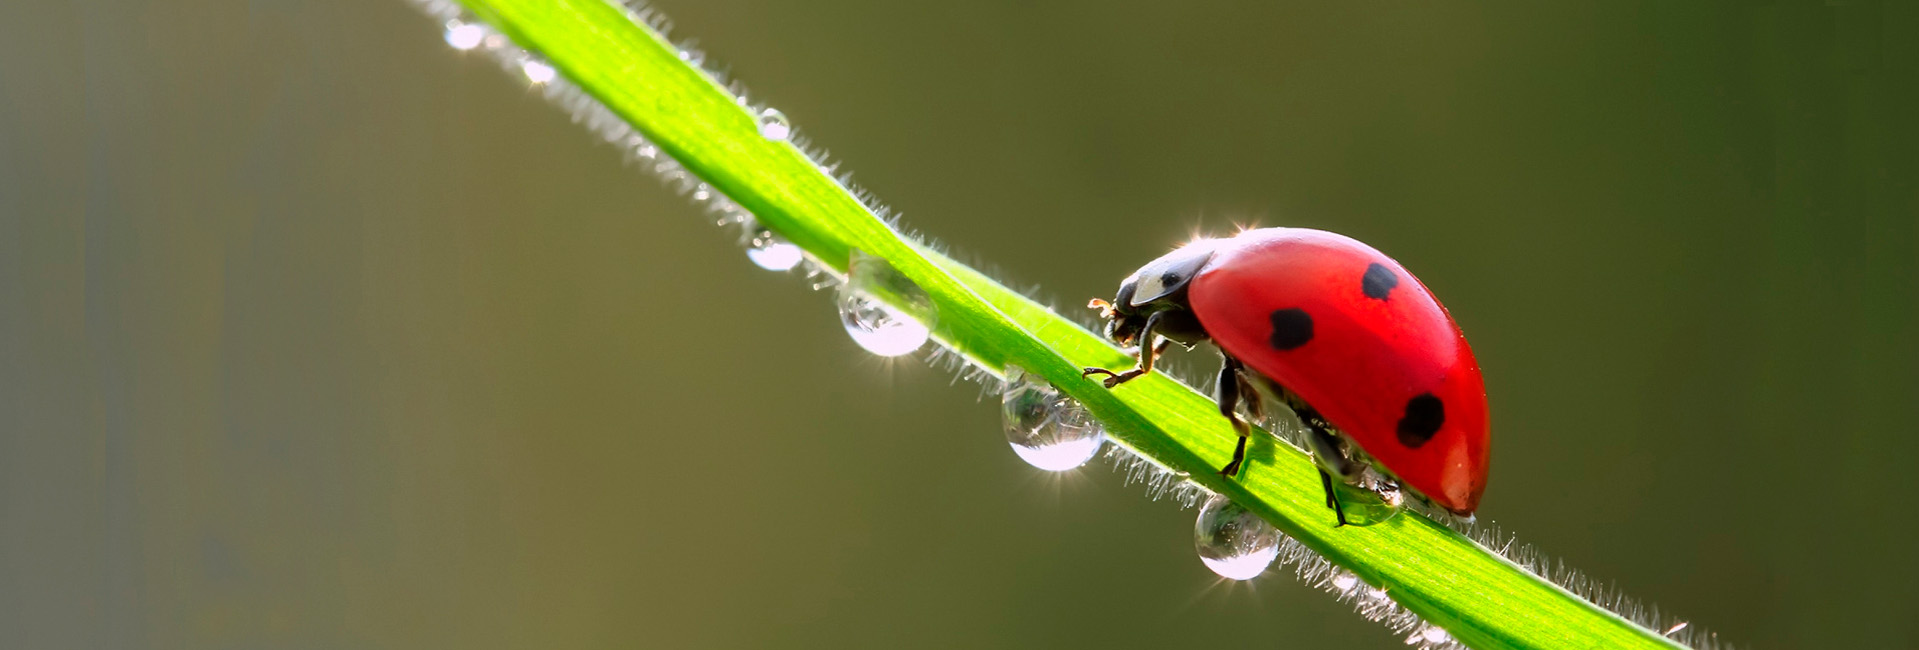
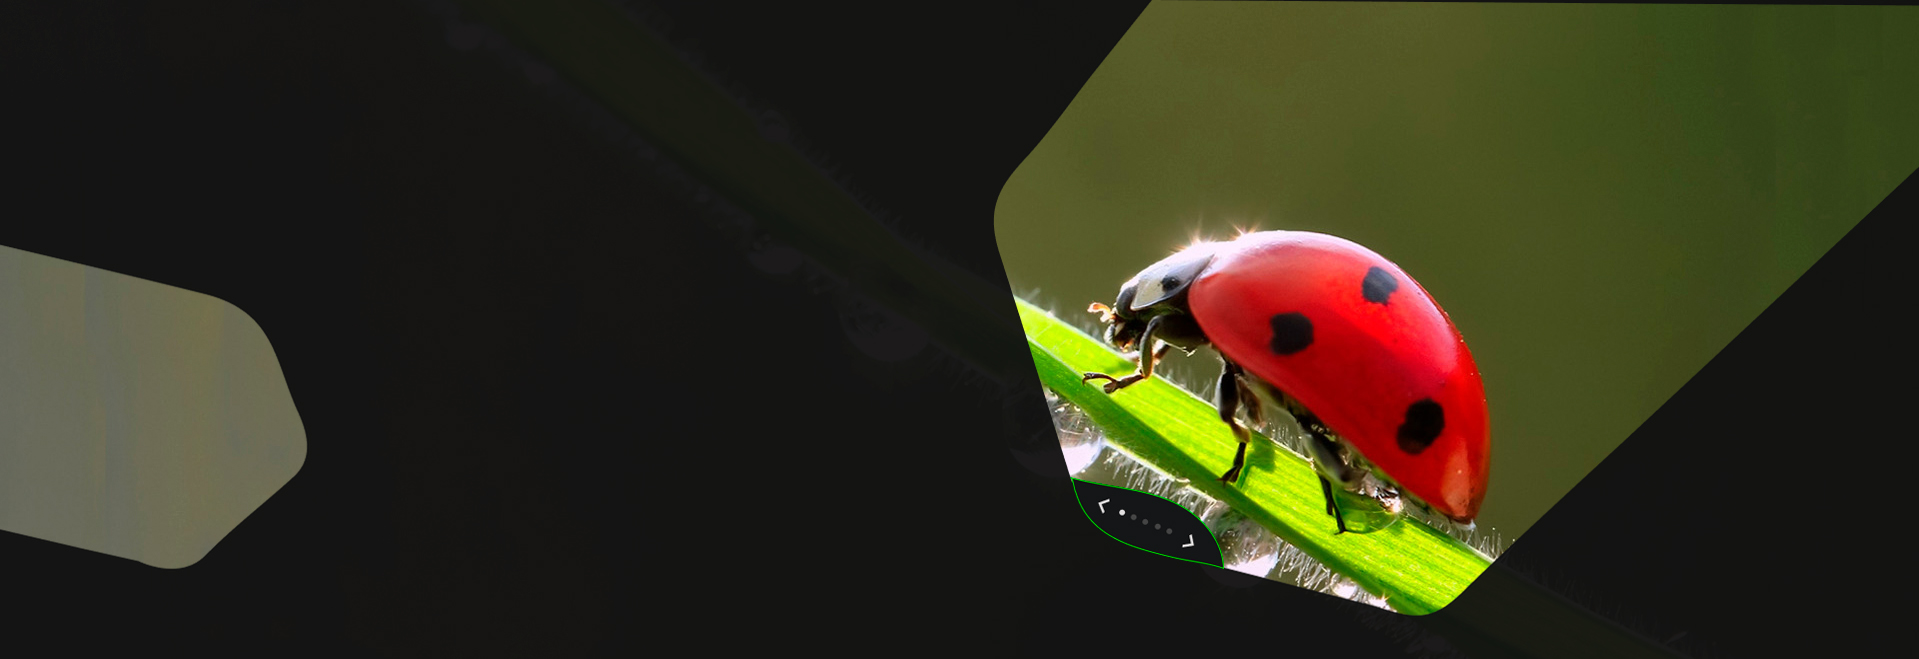
Entomophages Hero

diff --git a/frontend/src/components/Hero/index.tsx b/frontend/src/components/Hero/index.tsx
@@ -1,29 +1,21 @@
+import ListAltItems from "../ListAltItems";
 import ListItems from "../listItems";
 import styles from "./Hero.module.scss";
 
 const index = (props: any) => {
   return (
-      <div className={styles.hero}>
-        <img src="/Background/1.png" alt="Background" width={800} className={styles.imageAdapt} />
-        <div className={styles.container}>
-          <h1 className={styles.title}>{props.title}</h1>
+    <div className={styles.hero} style={{ backgroundImage: `url(${props.Background})` }}>
+      <img src={props.imageAdapt} alt="Background" width={800} className={styles.imageAdapt} />
+      <div className={styles.container}>
+        <h1 className={styles.title}>{props.title}</h1>
 
-          {props.text && <p className={styles.text}>{props.text}</p>}
+        {props.text && <p className={styles.text}>{props.text}</p>}
 
-          {props.listItems && <ListItems listItems={props.listItems} />}
+        {props.listItems && <ListItems listItems={props.listItems} />}
 
-          {/* {props.listAltItems && props.listAltItems.length > 0 && (
-          <ul className={styles.listAlt}>
-            {props.listAltItems.map((item: any, index: any) => (
-              <li key={index} className={styles.itemAlt}>
-                <img src={item.img} alt="icon" width={40} height={40} className={styles.icon} />
-                <h3 className={styles.text}>{item.title}</h3>
-              </li>
-            ))}
-          </ul>
-        )}  */}
-        </div>
+        {props.listAltItems && <ListAltItems listItem={props.listAltItems} />}
       </div>
+    </div >
   );
 };
 

diff --git a/frontend/src/pages/Entomophages.tsx b/frontend/src/pages/Entomophages.tsx
@@ -51,7 +51,8 @@ const Entomophages = () => {
     <>
       <Hero
         title="Высокоэффективные Энтомофаги"
-        backgroundImage="./Background/Entomophages.jpg"
+        Background="/Background/Entomophages.jpg"
+        imageAdapt="/Background/2.png"
         text="Внесение энтофагов при помощи БПЛА увеличивает эффективность защиты растений до 90%"
         listAltItems={[
           { img: "./Hero/iconSoy.svg", title: "до 90% сои" },
@@ -59,10 +60,7 @@ const Entomophages = () => {
           { img: "./Hero/iconRape.svg", title: "до 70% рапса" },
           { img: "./Hero/iconSunflower.svg", title: "до 85% подсолнуха" },
           { img: "./Hero/iconCorn.svg", title: "до 80 % кукурудзы" },
-          {
-            img: "./Hero/iconFruits.svg",
-            title: "до 90 % овощных и плодовых культ",
-          },
+          { img: "./Hero/iconFruits.svg", title: "до 90 % овощных и плодовых культ" },
         ]}
       />
 

diff --git a/frontend/src/components/ListAltItems/ListAltItems.module.scss b/frontend/src/components/ListAltItems/ListAltItems.module.scss
@@ -1,0 +1,76 @@
+.listAlt {
+    max-width: 700px;
+    display: flex;
+    flex-wrap: wrap;
+    gap: 40px;
+    margin-top: 70px;
+    justify-content: space-between;
+}
+
+.itemAlt {
+    display: flex;
+    width: 200px;
+}
+
+.icon {
+    margin-right: 10px;
+}
+
+.text {
+    font-weight: 400;
+    font-size: 18px;
+    line-height: 222%;
+}
+
+@media (max-width: 1650px) {
+    .listAlt {
+        max-width: 600px;
+        gap: 0;
+    }
+
+    .itemAlt {
+        display: flex;
+        width: 180px;
+    }
+
+    .icon {
+        margin-right: 10px;
+    }
+
+    .text {
+        font-weight: 400;
+        font-size: 18px;
+        line-height: 222%;
+    }
+}
+
+@media (max-width: 1300px) {
+    .listAlt {
+        max-width: 500px;
+        margin-top: 40px;
+    }
+
+    .itemAlt {
+        width: 160px;
+    }
+
+    .text {
+        font-size: 16px;
+    }
+}
+
+@media (max-width: 500px) {
+    .listAlt {
+        max-width: 400px;
+        gap: 8px;
+        justify-content: center;
+    }
+
+    .itemAlt {
+        width: 120px;
+    }
+
+    .text {
+        font-size: 14px;
+    }
+}

diff --git a/frontend/src/components/Hero/Hero.module.scss b/frontend/src/components/Hero/Hero.module.scss
@@ -1,5 +1,4 @@
 .hero {
-  background-image: url("/Background/bgBackgroundhero.jpg");
   background-repeat: no-repeat;
   background-size: contain;
   max-width: 1920px;
@@ -91,6 +90,11 @@
     font-size: 38px;
     max-width: 520px;
   }
+
+  .text {
+    font-size: 20px;
+    max-width: 460px;
+  }
 }
 
 // @media (max-width: 1300px) {
@@ -155,6 +159,10 @@
     text-align: center;
     margin: 0 auto;
   }
+
+  .text {
+    text-align: center;
+  }
 }
 
 @media (max-width: 950px) {
@@ -183,34 +191,12 @@
     font-size: 26px;
     max-width: 100%;
     text-align: center;
+    padding: 0;
+    margin-top: 24px;
   }
 
   .imageAdapt {
     width: 100%;
-    height: 300px;
+    height: 260px;
   }
 }
-
-// .listAlt {
-//   max-width: 700px;
-//   display: flex;
-//   flex-wrap: wrap;
-//   gap: 40px;
-//   margin-top: 70px;
-//   justify-content: space-between;
-// }
-
-// .itemAlt {
-//   display: flex;
-//   width: 200px;
-// }
-
-// .icon {
-//   margin-right: 10px;
-// }
-
-// .text {
-//   font-weight: 400;
-//   font-size: 18px;
-//   line-height: 222%;
-// }

diff --git a/frontend/src/components/ListAltItems/index.tsx b/frontend/src/components/ListAltItems/index.tsx
@@ -1,0 +1,16 @@
+import styles from './ListAltItems.module.scss';
+
+const index = (props: any) => {
+    return (
+        <ul className={styles.listAlt}>
+            {props.listItem.map((item: any, index: any) => (
+                <li key={index} className={styles.itemAlt}>
+                    <img src={item.img} alt="icon" width={40} height={40} className={styles.icon} />
+                    <h3 className={styles.text}>{item.title}</h3>
+                </li>
+            ))}
+        </ul>
+    )
+}
+
+export default index

diff --git a/frontend/src/pages/Home.tsx b/frontend/src/pages/Home.tsx
@@ -13,7 +13,8 @@ const Home = () => {
     <>
       <Hero
         title="AgroScout - беспилотные технологии для сельского хозяйства и промышлености"
-        backgroundImage="./bgBackground.jpg"
+        Background="/Background/bgBackgroundhero.jpg"
+        imageAdapt="/Background/1.png"
         listItems={[
           { title: "50 000 Га", text: "ежегодной обработки" },
           { title: "30%", text: "экономии средств" },
